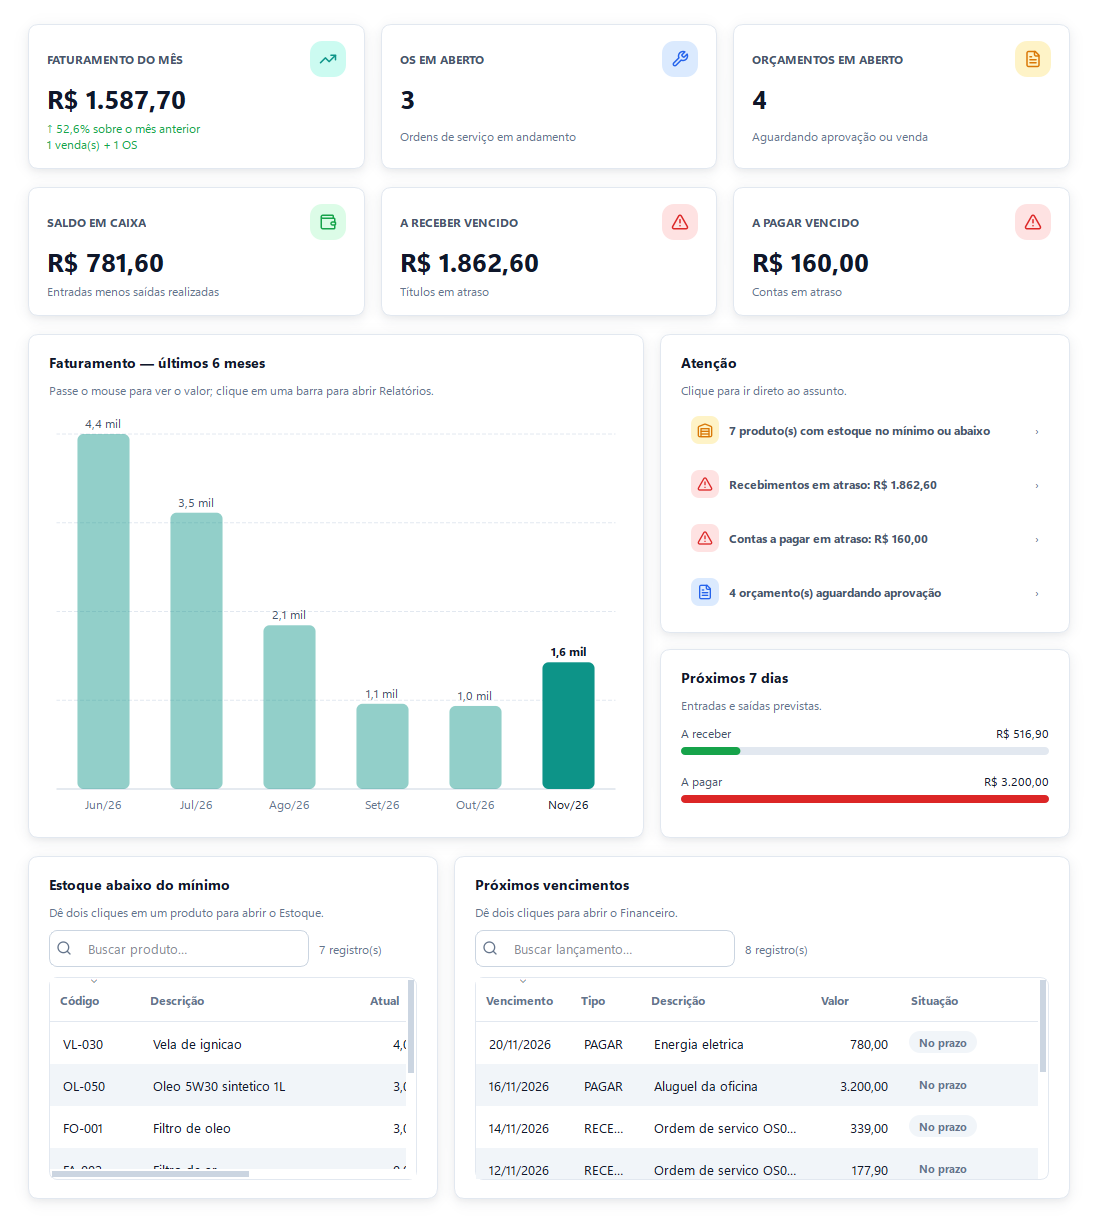
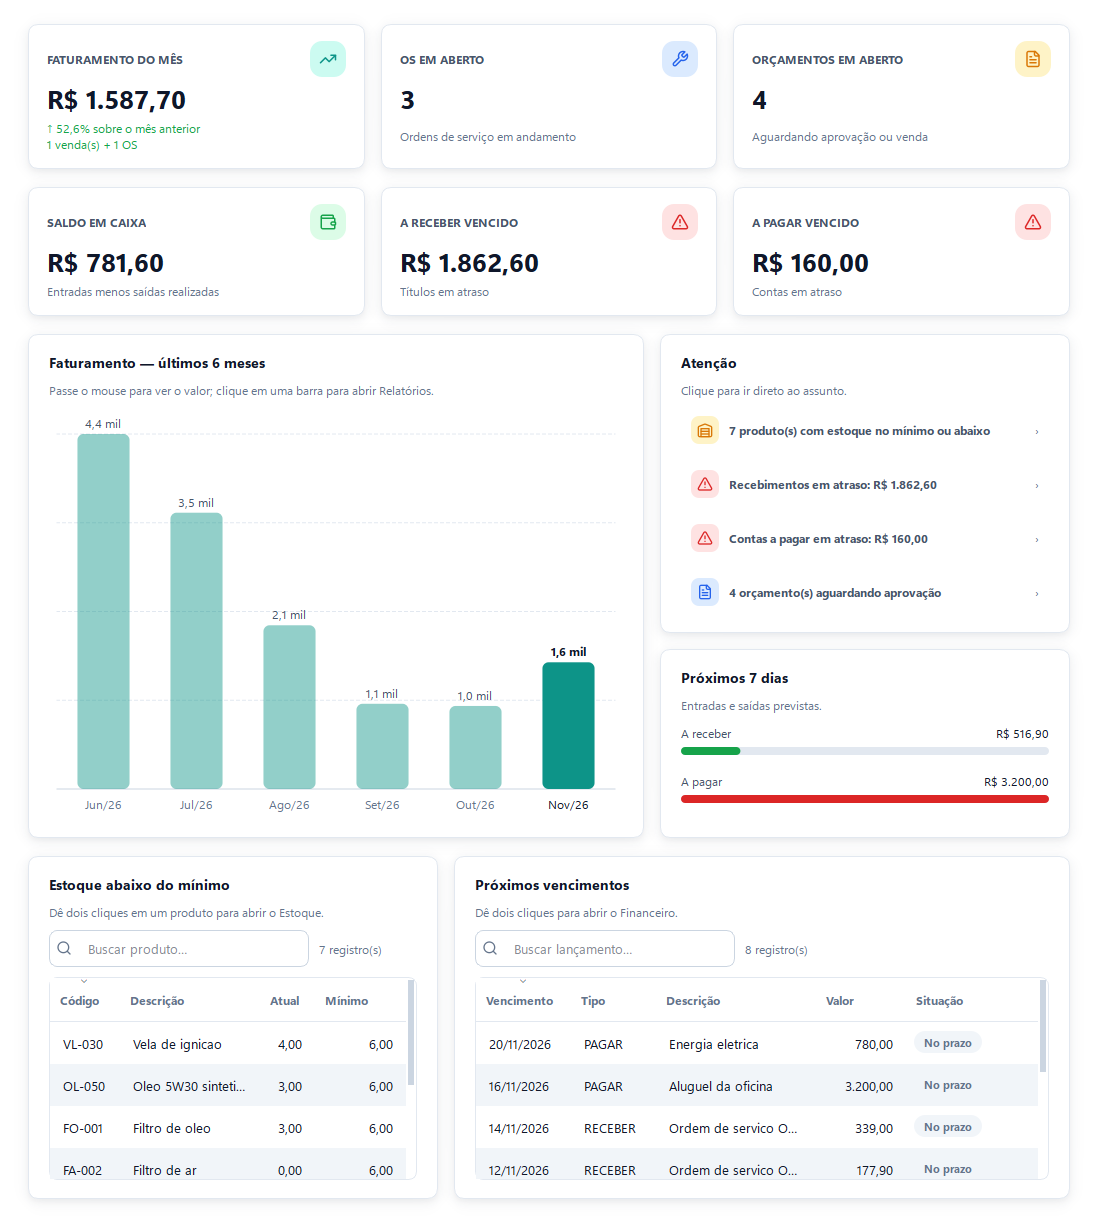
style(ui): ajusta larguras das tabelas do dashboard e capturas

diff --git a/app/ui/paginas/dashboard.py b/app/ui/paginas/dashboard.py
@@ -237,7 +237,7 @@ class PaginaDashboard(Pagina):
     def _cartao_estoque(self, linhas) -> Card:
         card, corpo = self._cartao("Estoque abaixo do mínimo", "Dê dois cliques em um produto para abrir o Estoque.")
         tabela = TabelaDados(
-            [Coluna("Código", "texto", 90), Coluna("Descrição", "texto", 220), Coluna("Atual", "num", 70), Coluna("Mínimo", "num", 70)],
+            [Coluna("Código", "texto", 70), Coluna("Descrição", "texto", 140), Coluna("Atual", "num", 55), Coluna("Mínimo", "num", 62)],
             vazio_titulo="Tudo certo",
             vazio_texto="Nenhum produto abaixo do mínimo.",
             placeholder="Buscar produto…",
@@ -252,7 +252,7 @@ class PaginaDashboard(Pagina):
         card, corpo = self._cartao("Próximos vencimentos", "Dê dois cliques para abrir o Financeiro.")
         tons = {"Vencido": "perigo", "No prazo": "neutro"}
         tabela = TabelaDados(
-            [Coluna("Vencimento", "data", 95), Coluna("Tipo", "texto", 70), Coluna("Descrição", "texto", 170), Coluna("Valor", "num", 90), Coluna("Situação", "emblema", 90, tons)],
+            [Coluna("Vencimento", "data", 95), Coluna("Tipo", "texto", 85), Coluna("Descrição", "texto", 160), Coluna("Valor", "num", 90), Coluna("Situação", "emblema", 90, tons)],
             vazio_titulo="Sem vencimentos",
             vazio_texto="Nenhum lançamento em aberto para os próximos dias.",
             placeholder="Buscar lançamento…",
